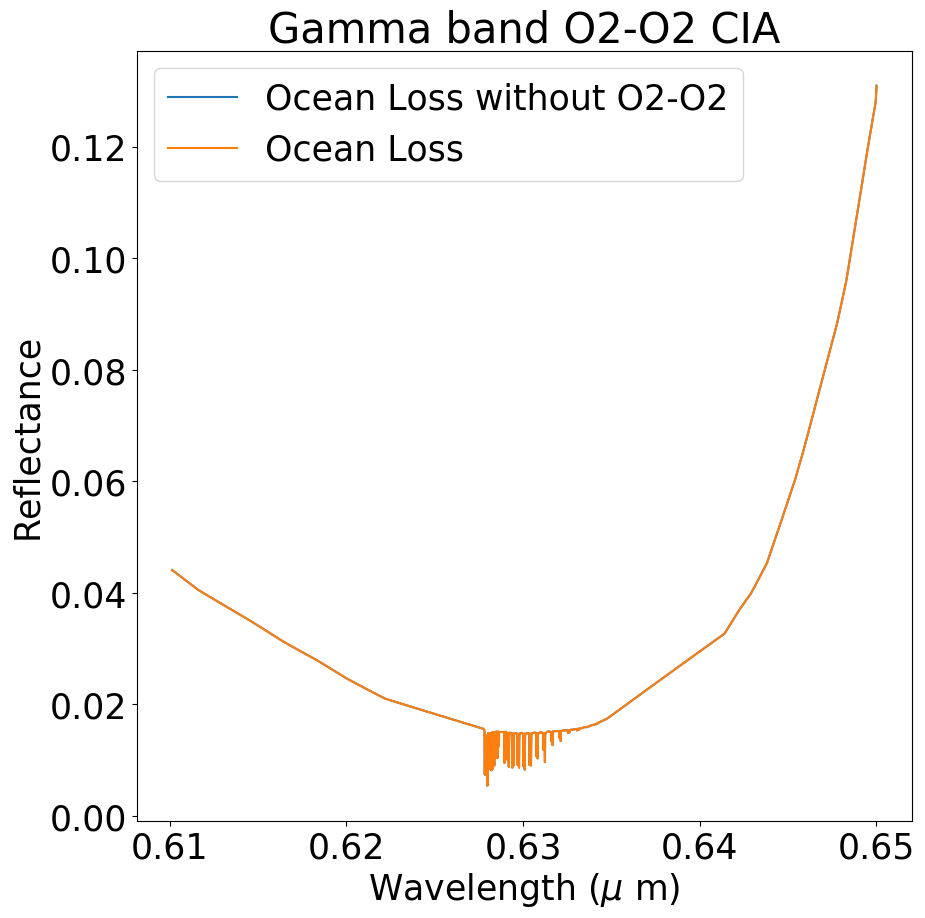
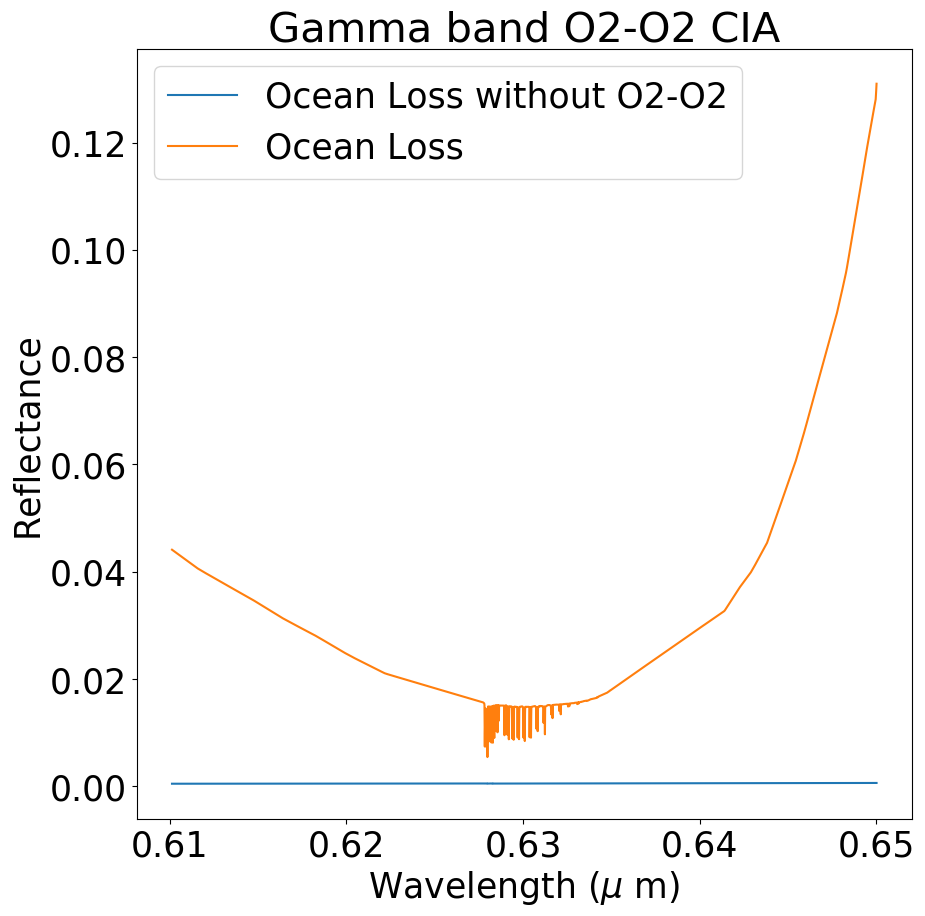
fixing error

diff --git a/smart_plot_noo4.py b/smart_plot_noo4.py
@@ -20,25 +20,27 @@ def smart_basic(lamin, lamax, title, atmos):
         pass
     
     if atmos == 'dry':
-        info2 = "highd"
+        info1 = "highd"
         infile1 = "10bar_O2_dry.pt_filtered.pt"
-        sim1 = smart.interface.Smart(tag = info2)
+        sim1 = smart.interface.Smart(tag = info1)
         sim1.load_atmosphere_from_pt(infile1, addn2 = False)
         sim1.smartin.alb_file = "desert_highd.alb"
         o2 = sim1.atmosphere.gases[1]
         o2.cia_file = None
+        info2 = 'highd2'
         infile2 = "10bar_O2_dry.pt_filtered.pt"
         sim2 = smart.interface.Smart(tag = info2)
         sim2.load_atmosphere_from_pt(infile2, addn2 = False, scaleP = 1.0)
         sim2.smartin.alb_file = "desert_highd.alb"
     else:
-        info2 = "highw"
+        info1 = "highw"
         infile1 = "10bar_O2_wet.pt_filtered.pt"
-        sim1 = smart.interface.Smart(tag = info2)
+        sim1 = smart.interface.Smart(tag = info1)
         sim1.load_atmosphere_from_pt(infile1, addn2 = False)
         sim1.smartin.alb_file = "earth_noveg_highw.alb"
         o2 = sim1.atmosphere.gases[1]
         o2.cia_file = None
+        info2 = 'highw2'
         infile2 = "10bar_O2_wet.pt_filtered.pt"
         sim2 = smart.interface.Smart(tag = info2)
         sim2.load_atmosphere_from_pt(infile2, addn2 = False, scaleP = 1.0)
@@ -101,7 +103,7 @@ def smart_basic(lamin, lamax, title, atmos):
     ax.set_title(title)
     fig_name = int(100*(float(lamin) + float(lamax))/2)
     ax.legend()
-    if lamax > 1.29:
+    if lamax > 1.29 and lamax < 1.32:
         ax.set_xlim(1.25,1.29)
     if atmos == 'dry':
         fig.savefig(str(fig_name) +  "_noO4.png", bbox_inches = "tight")
@@ -133,18 +135,18 @@ if __name__ == '__main__':
         smart_basic(0.61, 0.65, "Gamma band O2-O2 CIA", 'dry')
         smart_basic(0.67, 0.71, "Oxygen B band O2-O2 CIA", 'dry')
         smart_basic(0.74, 0.78, "Oxygen A band O2-O2 CIA", 'dry')
-        smart_basic(1.25,1.29, "1.27 band O2-O2 CIA", 'dry')
+        smart_basic(1.25,1.30, "1.27 band O2-O2 CIA", 'dry')
         smart_basic(0.61, 0.65, "Gamma band O2-O2 CIA", 'wet')
         smart_basic(0.67, 0.71, "Oxygen B band O2-O2 CIA", 'wet')
         smart_basic(0.74, 0.78, "Oxygen A band O2-O2 CIA", 'wet')
-        smart_basic(1.25,1.29, "1.27 band O2-O2 CIA", 'wet')
+        smart_basic(1.25,1.30, "1.27 band O2-O2 CIA", 'wet')
 
     else:
         # Presumably, on a regular computer: ready to run
         smart_basic(0.61, 0.65, "Gamma band O2-O2 CIA", 'dry')
-        smart_basic(0.67, 0.71, "Oxygen B band O2-O2 CIA", 'dry')
-        smart_basic(0.74, 0.78, "Oxygen A band O2-O2 CIA", 'dry')
-        smart_basic(1.25,1.29, "1.27 band O2-O2 CIA", 'dry')
+ #       smart_basic(0.67, 0.71, "Oxygen B band O2-O2 CIA", 'dry')
+ #       smart_basic(0.74, 0.78, "Oxygen A band O2-O2 CIA", 'dry')
+ #       smart_basic(1.25,1.29, "1.27 band O2-O2 CIA", 'dry')
 
 
 
